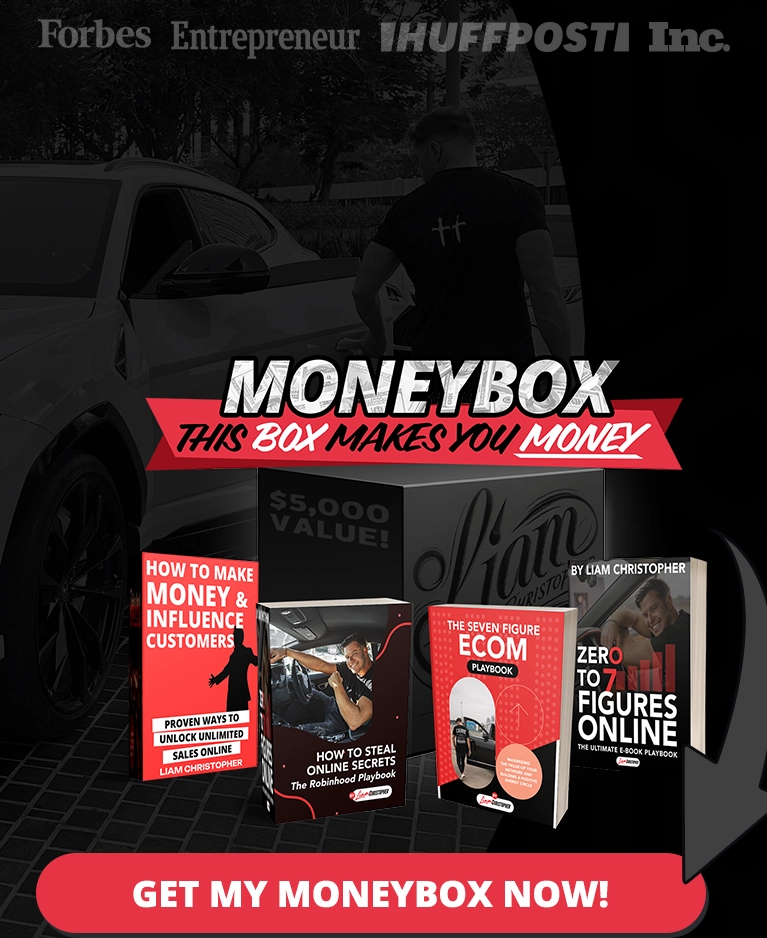
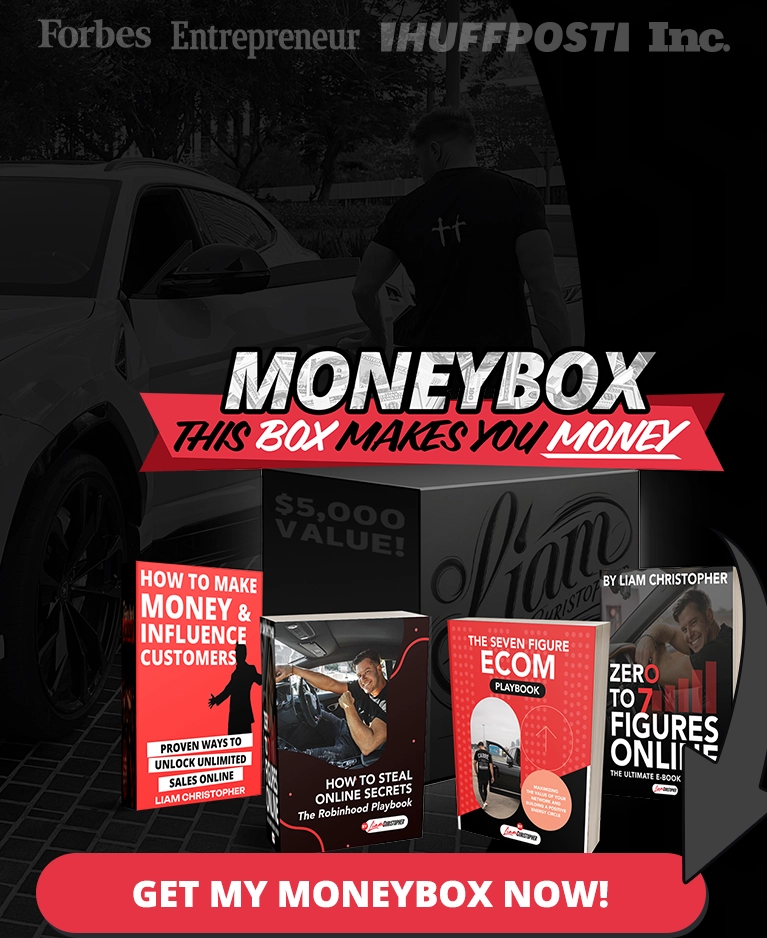
complete

Changed region(s): [[0.1499, 0.371, 0.9896, 0.9275]]

diff --git a/css/style.css b/css/style.css
@@ -312,28 +312,119 @@ ul.circles li::before {
 }
 
 @media (max-width: 767px) {
-	.tier-1, .tier-2, .tier-3, .tier-4, .tier-5, .tier-7 {min-height:auto;padding-bottom:35px;}
+	.tier-2, .tier-3, .tier-4, .tier-5, .tier-7 {height:auto;padding-bottom:35px;}
 	body {font-size:14px;}
 	.hero .cta-btn::after, .tier-close .cta-btn::after {display:none;}
 	.cta {padding:0 10%;}
 	.bk-a, .bk-b, .bk-c, .bk-d {position:relative;width:100%;}
+	.bk-a {right:0;}
+	.bk-b {bottom: 0px;right: 0px;}
+	.bk-d {bottom: -30px;}
+	ul.circles li {padding-right: 30%;}
 	.hero .adj-1, .tier-close .adj-1 {margin-top: 10px;}
 	ul.checks {padding-left: 25%;}
 	ul.checks li {font-size: 12px;}
 	.hero-floor .container {height: auto;}
 	.hero-floor .shirt-con {right: 60%;}
 	.tier-2 .half-circ {width: 100%;}
-
+	.tier-2 .adj-1 {margin-top: -30px;}
+	.red-bar.right, .red-bar.left {padding-top: 5px;}
+	.red-bar.right {margin-top: 30px;}
+	.red-bar.right p, .red-bar.left p {padding-right:0;padding-left:0;font-size:12px;}
+	.red-bar.left::after {display:none;}
+	.tier-2 .adj-3 {margin-top: -95px;}
+	.sep {height: 113px;background-size: 540px;}
+	.sep .cta {margin-top: 50px;}
+	.tier-3 {background-size: 950px;background-position: -360px top;}
+	.tier-3 .adj-1 {margin-top: -10px;}
+	.tier-3 .adj-3 {margin-top: 30px;}
+	.tier-4 .shirt {top: auto;width: 200px;bottom: -90px;}
+	.tier-5 .col-xs-4 {padding:0;}
+	.tier-5 img {border: 5px solid #0c0b0e;}
+	.tier-5 p {font-size: 12px;margin-top: 25px;}
+	.tier-faq .quest-box {margin: 50px 15px;}
+	.tier-faq .quest-box .panel-default>.panel-heading+.panel-collapse>.panel-body {font-size: 12px;}
+	.tier-close .adj-3 {position: absolute;top: -80px;right: 0;width: 100%;}
+	.tier-close {height: 407px;}
+	.hero-floor.closeout .shirt-con {left: -18.666666%;width: 230px;}
 }
 @media (max-width: 391px) {
-	
+	h4 {
+        font-size: 26px;
+    }
+	h4.sml {
+        font-size: 22px;
+    }
+	.tier-2 .adj-1 {
+        margin-top: -15px;
+    }
+	.tier-2 .adj-3 {
+        margin-top: -85px;
+    }
+	.tier-3 .adj-1 {
+        margin-top: -5px;
+    }
+	.tier-4 .shirt {
+        top: auto;
+        width: 170px;
+        bottom: -70px;
+    }
+	.tier-5 p {
+        font-size: 12px;
+        margin-top: 5px;
+    }
+	.tier-5 .row {margin-top:10px;margin-bottom:10px;}
+	.hero-floor.closeout .shirt-con {
+        left: -21.666666%;
+        width: 230px;
+    }
+	.tier-close {
+        height: 380px;
+    }
 }
 @media (max-width: 376px) {
-	
+	.hero-floor .shirt-con {
+        right: 56%;
+    }
+	.red-bar {
+        font-size: 11px;
+    }
+	.red-bar.right p, .red-bar.left p {
+        padding-right: 0;
+        padding-left: 0;
+        font-size: 11px;
+    }
+	.tier-4 {
+        background-size: 1320px;
+    }
+	.tier-4 .shirt {bottom: -60px;}
+	.tier-5 p {
+        font-size: 11px;
+        margin-top: 5px;
+    }
 }
 @media (max-width: 361px) {
 	
 }
 @media (max-width: 321px) {
-	
+	.red-bar {font-size: 10px;}
+	.hero-floor .shirt-con {
+        right: 53%;
+    }
+	.red-bar.right p, .red-bar.left p {
+        padding-right: 0;
+        padding-left: 0;
+        font-size: 10px;
+    }
+	h4.sml {
+        font-size: 20px;
+    }
+	.tier-4 .shirt {width: 130px;}
+	.tier-close {
+        height: 330px;
+    }
+	.hero-floor.closeout .shirt-con {
+        left: -26.666666%;
+        width: 230px;
+    }
 }

diff --git a/index.php b/index.php
@@ -65,7 +65,7 @@
 				<div class="title-con pos">
 					<img src="img/hard-copy.webp" class="img-responsive" />
 				</div>
-				<h4>Zer<span class="red">o</span> to <span class="red">7</span> Figures Online</h4>
+				<h4>Zer<span class="red">o</span> to <span class="red">7</span> <br class="visible-xs" />Figures Online</h4>
 				<p>Learn how to...</p>
 				<ul class="circles adj-2">
 					<li>Build a brand <span class="red cw-bold">from scratch</span></li>
@@ -127,7 +127,7 @@
 				<div class="title-con pos">
 					<img src="img/hard-copy.webp" class="img-responsive" />
 				</div>
-				<h4>How to <span class="red">Steal</span> Online Secrets</h4>
+				<h4>How to <span class="red">Steal</span> <br class="visible-xs" />Online Secrets</h4>
 				<p>Learn how to...</p>
 				<ul class="circles adj-2">
 					<li>Identify brands that are <span class="red cw-bold">crushing</span> it</li>
